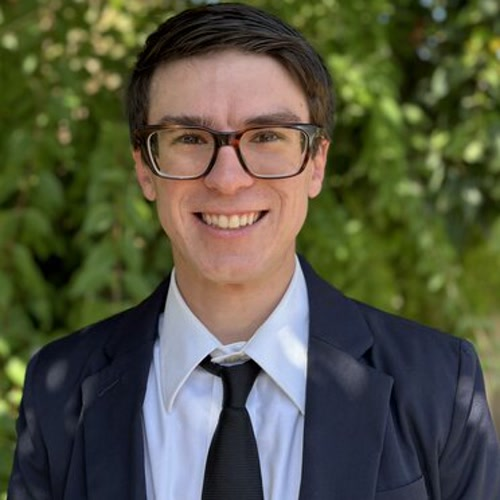
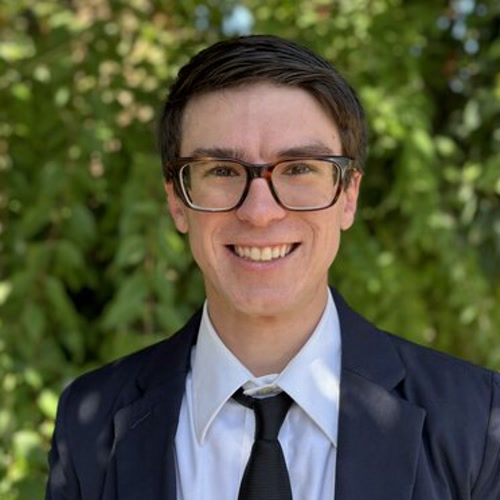
Team: zoom Nathan in, shift Dom down+right, drop unused v2 files
- Nathan headshot re-cropped a touch tighter (head fills a bit more).
- Dom's crop shifted so his face sits lower and slightly right in the frame.
- Cache-bust both via ?v=2 (files overwritten in place).
- Remove superseded nathan-v2.jpg / dom-v2.jpg. Kept nathan/chris/dom.jpg
  base originals as the crop source masters.

diff --git a/src/data.js b/src/data.js
@@ -257,7 +257,7 @@ export const blogPosts = [
 export const blogBySlug = (slug) => blogPosts.find((p) => p.slug === slug)
 
 export const team = [
-  { initial: 'N', name: 'Nathan Katzaroff', role: 'Co-founder', img: '/media/team/nathan-hs.jpg', bio: 'Leads brand and growth, on a mission to make hydration something you never have to think about.' },
+  { initial: 'N', name: 'Nathan Katzaroff', role: 'Co-founder', img: '/media/team/nathan-hs.jpg?v=2', bio: 'Leads brand and growth, on a mission to make hydration something you never have to think about.' },
   { initial: 'C', name: 'Christopher Miglio', role: 'Co-founder', img: '/media/team/chris-hs.jpg', bio: 'Heads product and hardware, obsessing over a tiny sensor that disappears onto the bottle you already own.' },
-  { initial: 'D', name: 'Dominic Dal Porto', role: 'Engineering', img: '/media/team/dom-hs.jpg', bio: 'Builds the app and firmware that turn raw sip data into habits that actually stick.' },
+  { initial: 'D', name: 'Dominic Dal Porto', role: 'Engineering', img: '/media/team/dom-hs.jpg?v=2', bio: 'Builds the app and firmware that turn raw sip data into habits that actually stick.' },
 ]
